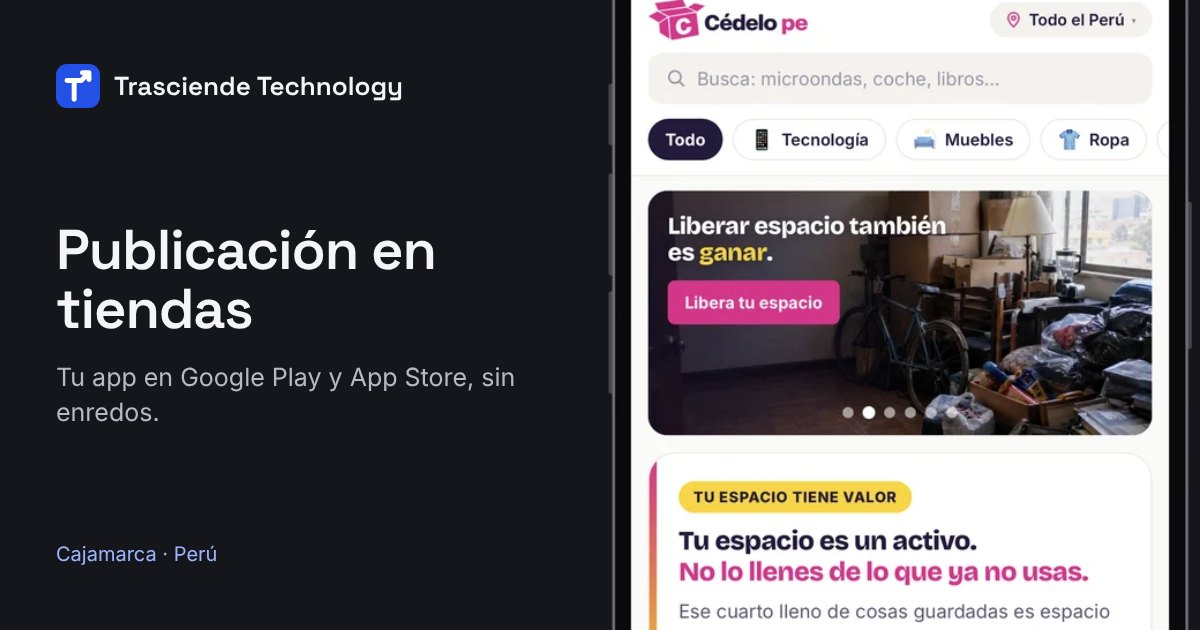
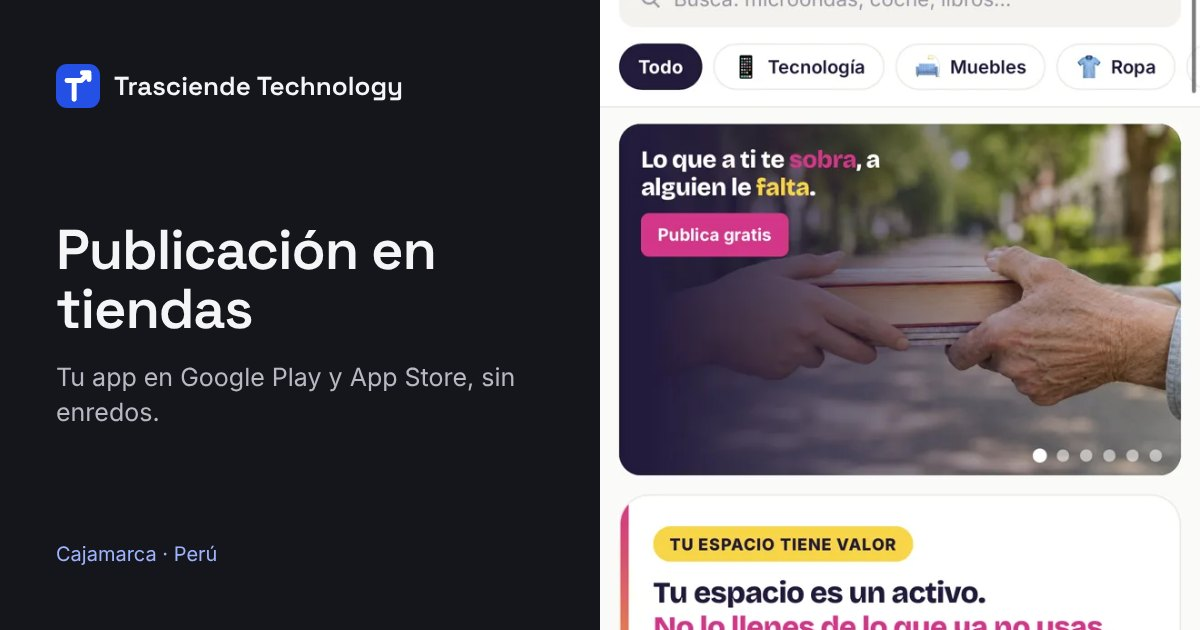
Nuevas capturas de Cédelo en marcos de iPhone y Android
Claude-Session: https://claude.ai/code/session_01VzWZn4JSzKTUWU45RsgEjn

diff --git a/index.html b/index.html
@@ -170,8 +170,10 @@ html.anim .promo{overflow-x:clip}
 #servicios .losa:has(.enlace:focus-visible){outline:2px solid var(--azul);outline-offset:-2px}
 
 /* ---------- Caso Cédelo ---------- */
-.caso-fotos{display:flex;gap:28px;justify-content:center;margin-top:56px;flex-wrap:wrap}
-.caso-fotos img{width:260px;max-width:44%;height:auto;filter:drop-shadow(0 26px 34px rgba(20,22,28,.3))}
+.caso-fotos{display:flex;gap:22px;justify-content:center;align-items:flex-start;margin:56px auto 0;max-width:1100px;flex-wrap:wrap}
+.caso-fotos img{width:calc(25% - 17px);min-width:0;height:auto;filter:drop-shadow(0 26px 34px rgba(0,0,0,.45))}
+.caso-fotos img:nth-child(even){margin-top:48px}
+@media(max-width:760px){.caso-fotos{gap:14px}.caso-fotos img{width:calc(50% - 7px)}.caso-fotos img:nth-child(even){margin-top:36px}}
 .mini{margin-top:50px;display:grid;grid-template-columns:repeat(3,1fr);gap:1px;background:var(--borde-osc,#2A2D38);max-width:860px;margin-left:auto;margin-right:auto;border:1px solid #2A2D38}
 .promo-osc .mini{background:#2A2D38}
 .mini div{background:var(--ink);padding:26px 20px}
@@ -400,8 +402,10 @@ details p{margin:0 0 18px;font-size:16px;line-height:1.6;color:var(--texto-2)}
   <p class="sub">Una plataforma para que los vecinos donen, vendan barato o intercambien lo que ya no usan. La construimos de principio a fin: diseño, desarrollo, base de datos en la nube, empresa, marca y redes. Ya está en Google Play con cuenta de organización a nombre de la empresa; la App Store está en trámite.</p>
   <p class="lema">“Lo que a ti te sobra, a alguien le falta.”</p>
   <div class="caso-fotos">
-    <img src="/img/cedelo-iphone.webp" alt="Cédelo pe en un iPhone: portada y sección Tu espacio tiene valor">
-    <img src="/img/cedelo-android.webp" alt="Cédelo pe en un celular Android: publicaciones gratis y en venta">
+    <img src="/img/cedelo/ios-home1.webp" width="661" height="1350" loading="lazy" alt="Cédelo pe en un iPhone: portada con el lema y la sección Tu espacio tiene valor">
+    <img src="/img/cedelo/android-lista2.webp" width="657" height="1377" loading="lazy" alt="Cédelo pe en un celular Android: publicaciones en venta y donaciones gratis en Cajamarca">
+    <img src="/img/cedelo/ios-chat.webp" width="661" height="1350" loading="lazy" alt="Cédelo pe en un iPhone: chat privado con consejos de entrega segura">
+    <img src="/img/cedelo/android-home2.webp" width="657" height="1377" loading="lazy" alt="Cédelo pe en un celular Android: portada con otra imagen del carrusel">
   </div>
   <div class="mini">
     <div><b>Chat en tiempo real</b><span>Reserva, visto y respuestas rápidas</span></div>

diff --git a/servicios/publicacion-en-tiendas/index.html b/servicios/publicacion-en-tiendas/index.html
@@ -170,8 +170,10 @@ html.anim .promo{overflow-x:clip}
 #servicios .losa:has(.enlace:focus-visible){outline:2px solid var(--azul);outline-offset:-2px}
 
 /* ---------- Caso Cédelo ---------- */
-.caso-fotos{display:flex;gap:28px;justify-content:center;margin-top:56px;flex-wrap:wrap}
-.caso-fotos img{width:260px;max-width:44%;height:auto;filter:drop-shadow(0 26px 34px rgba(20,22,28,.3))}
+.caso-fotos{display:flex;gap:22px;justify-content:center;align-items:flex-start;margin:56px auto 0;max-width:1100px;flex-wrap:wrap}
+.caso-fotos img{width:calc(25% - 17px);min-width:0;height:auto;filter:drop-shadow(0 26px 34px rgba(0,0,0,.45))}
+.caso-fotos img:nth-child(even){margin-top:48px}
+@media(max-width:760px){.caso-fotos{gap:14px}.caso-fotos img{width:calc(50% - 7px)}.caso-fotos img:nth-child(even){margin-top:36px}}
 .mini{margin-top:50px;display:grid;grid-template-columns:repeat(3,1fr);gap:1px;background:var(--borde-osc,#2A2D38);max-width:860px;margin-left:auto;margin-right:auto;border:1px solid #2A2D38}
 .promo-osc .mini{background:#2A2D38}
 .mini div{background:var(--ink);padding:26px 20px}
@@ -339,7 +341,7 @@ details p{margin:0 0 18px;font-size:16px;line-height:1.6;color:var(--texto-2)}
 <section class="promo promo-osc">
   <h2 style="font-size:clamp(28px,4vw,42px)">Las tasas de las tiendas van aparte.</h2>
   <p class="sub">Google Play cobra un pago único por la cuenta de desarrollador y Apple cobra una membresía anual. Te detallamos los montos antes de empezar.</p>
-  <div class="prueba"><img src="/img/cedelo-android.webp" alt="Cédelo pe en un celular Android" loading="lazy"><p><b>Lo hicimos con Cédelo pe.</b> Publicada en Google Play con cuenta de organización a nombre de Trasciende Technology. La publicación en App Store está en trámite.<br><a class="enlace enlace-claro" href="/#caso" style="font-size:16px;margin-top:10px">Ver el caso</a></p></div>
+  <div class="prueba"><img src="/img/cedelo/android-lista1.webp" alt="Cédelo pe en un celular Android" loading="lazy"><p><b>Lo hicimos con Cédelo pe.</b> Publicada en Google Play con cuenta de organización a nombre de Trasciende Technology. La publicación en App Store está en trámite.<br><a class="enlace enlace-claro" href="/#caso" style="font-size:16px;margin-top:10px">Ver el caso</a></p></div>
 </section>
 
 <section class="promo" style="padding-bottom:0">

diff --git a/servicios/apps-y-plataformas/index.html b/servicios/apps-y-plataformas/index.html
@@ -170,8 +170,10 @@ html.anim .promo{overflow-x:clip}
 #servicios .losa:has(.enlace:focus-visible){outline:2px solid var(--azul);outline-offset:-2px}
 
 /* ---------- Caso Cédelo ---------- */
-.caso-fotos{display:flex;gap:28px;justify-content:center;margin-top:56px;flex-wrap:wrap}
-.caso-fotos img{width:260px;max-width:44%;height:auto;filter:drop-shadow(0 26px 34px rgba(20,22,28,.3))}
+.caso-fotos{display:flex;gap:22px;justify-content:center;align-items:flex-start;margin:56px auto 0;max-width:1100px;flex-wrap:wrap}
+.caso-fotos img{width:calc(25% - 17px);min-width:0;height:auto;filter:drop-shadow(0 26px 34px rgba(0,0,0,.45))}
+.caso-fotos img:nth-child(even){margin-top:48px}
+@media(max-width:760px){.caso-fotos{gap:14px}.caso-fotos img{width:calc(50% - 7px)}.caso-fotos img:nth-child(even){margin-top:36px}}
 .mini{margin-top:50px;display:grid;grid-template-columns:repeat(3,1fr);gap:1px;background:var(--borde-osc,#2A2D38);max-width:860px;margin-left:auto;margin-right:auto;border:1px solid #2A2D38}
 .promo-osc .mini{background:#2A2D38}
 .mini div{background:var(--ink);padding:26px 20px}
@@ -342,7 +344,7 @@ details p{margin:0 0 18px;font-size:16px;line-height:1.6;color:var(--texto-2)}
 <section class="promo promo-osc">
   <h2 style="font-size:clamp(28px,4vw,42px)">Empieza con lo esencial y crece por etapas.</h2>
   <p class="sub">Definimos juntos qué necesita la primera versión para salir a la calle. Lo demás se suma cuando tus usuarios lo piden.</p>
-  <div class="prueba"><img src="/img/cedelo-iphone.webp" alt="Cédelo pe en un iPhone" loading="lazy"><p><b>Lo hicimos con Cédelo pe.</b> Una plataforma para donar, vender barato o intercambiar, con chat en tiempo real, acceso con Google y base de datos en la nube. Ya está en Google Play.<br><a class="enlace enlace-claro" href="/#caso" style="font-size:16px;margin-top:10px">Ver el caso</a></p></div>
+  <div class="prueba"><img src="/img/cedelo/ios-home1.webp" alt="Cédelo pe en un iPhone" loading="lazy"><p><b>Lo hicimos con Cédelo pe.</b> Una plataforma para donar, vender barato o intercambiar, con chat en tiempo real, acceso con Google y base de datos en la nube. Ya está en Google Play.<br><a class="enlace enlace-claro" href="/#caso" style="font-size:16px;margin-top:10px">Ver el caso</a></p></div>
 </section>
 
 <section class="promo" style="padding-bottom:0">

diff --git a/404.html b/404.html
@@ -154,8 +154,10 @@ html.anim .promo{overflow-x:clip}
 #servicios .losa:has(.enlace:focus-visible){outline:2px solid var(--azul);outline-offset:-2px}
 
 /* ---------- Caso Cédelo ---------- */
-.caso-fotos{display:flex;gap:28px;justify-content:center;margin-top:56px;flex-wrap:wrap}
-.caso-fotos img{width:260px;max-width:44%;height:auto;filter:drop-shadow(0 26px 34px rgba(20,22,28,.3))}
+.caso-fotos{display:flex;gap:22px;justify-content:center;align-items:flex-start;margin:56px auto 0;max-width:1100px;flex-wrap:wrap}
+.caso-fotos img{width:calc(25% - 17px);min-width:0;height:auto;filter:drop-shadow(0 26px 34px rgba(0,0,0,.45))}
+.caso-fotos img:nth-child(even){margin-top:48px}
+@media(max-width:760px){.caso-fotos{gap:14px}.caso-fotos img{width:calc(50% - 7px)}.caso-fotos img:nth-child(even){margin-top:36px}}
 .mini{margin-top:50px;display:grid;grid-template-columns:repeat(3,1fr);gap:1px;background:var(--borde-osc,#2A2D38);max-width:860px;margin-left:auto;margin-right:auto;border:1px solid #2A2D38}
 .promo-osc .mini{background:#2A2D38}
 .mini div{background:var(--ink);padding:26px 20px}

diff --git a/servicios/arranque-digital/index.html b/servicios/arranque-digital/index.html
@@ -170,8 +170,10 @@ html.anim .promo{overflow-x:clip}
 #servicios .losa:has(.enlace:focus-visible){outline:2px solid var(--azul);outline-offset:-2px}
 
 /* ---------- Caso Cédelo ---------- */
-.caso-fotos{display:flex;gap:28px;justify-content:center;margin-top:56px;flex-wrap:wrap}
-.caso-fotos img{width:260px;max-width:44%;height:auto;filter:drop-shadow(0 26px 34px rgba(20,22,28,.3))}
+.caso-fotos{display:flex;gap:22px;justify-content:center;align-items:flex-start;margin:56px auto 0;max-width:1100px;flex-wrap:wrap}
+.caso-fotos img{width:calc(25% - 17px);min-width:0;height:auto;filter:drop-shadow(0 26px 34px rgba(0,0,0,.45))}
+.caso-fotos img:nth-child(even){margin-top:48px}
+@media(max-width:760px){.caso-fotos{gap:14px}.caso-fotos img{width:calc(50% - 7px)}.caso-fotos img:nth-child(even){margin-top:36px}}
 .mini{margin-top:50px;display:grid;grid-template-columns:repeat(3,1fr);gap:1px;background:var(--borde-osc,#2A2D38);max-width:860px;margin-left:auto;margin-right:auto;border:1px solid #2A2D38}
 .promo-osc .mini{background:#2A2D38}
 .mini div{background:var(--ink);padding:26px 20px}

diff --git a/servicios/paginas-web/index.html b/servicios/paginas-web/index.html
@@ -170,8 +170,10 @@ html.anim .promo{overflow-x:clip}
 #servicios .losa:has(.enlace:focus-visible){outline:2px solid var(--azul);outline-offset:-2px}
 
 /* ---------- Caso Cédelo ---------- */
-.caso-fotos{display:flex;gap:28px;justify-content:center;margin-top:56px;flex-wrap:wrap}
-.caso-fotos img{width:260px;max-width:44%;height:auto;filter:drop-shadow(0 26px 34px rgba(20,22,28,.3))}
+.caso-fotos{display:flex;gap:22px;justify-content:center;align-items:flex-start;margin:56px auto 0;max-width:1100px;flex-wrap:wrap}
+.caso-fotos img{width:calc(25% - 17px);min-width:0;height:auto;filter:drop-shadow(0 26px 34px rgba(0,0,0,.45))}
+.caso-fotos img:nth-child(even){margin-top:48px}
+@media(max-width:760px){.caso-fotos{gap:14px}.caso-fotos img{width:calc(50% - 7px)}.caso-fotos img:nth-child(even){margin-top:36px}}
 .mini{margin-top:50px;display:grid;grid-template-columns:repeat(3,1fr);gap:1px;background:var(--borde-osc,#2A2D38);max-width:860px;margin-left:auto;margin-right:auto;border:1px solid #2A2D38}
 .promo-osc .mini{background:#2A2D38}
 .mini div{background:var(--ink);padding:26px 20px}

diff --git a/servicios/ruta-ssoma/index.html b/servicios/ruta-ssoma/index.html
@@ -170,8 +170,10 @@ html.anim .promo{overflow-x:clip}
 #servicios .losa:has(.enlace:focus-visible){outline:2px solid var(--azul);outline-offset:-2px}
 
 /* ---------- Caso Cédelo ---------- */
-.caso-fotos{display:flex;gap:28px;justify-content:center;margin-top:56px;flex-wrap:wrap}
-.caso-fotos img{width:260px;max-width:44%;height:auto;filter:drop-shadow(0 26px 34px rgba(20,22,28,.3))}
+.caso-fotos{display:flex;gap:22px;justify-content:center;align-items:flex-start;margin:56px auto 0;max-width:1100px;flex-wrap:wrap}
+.caso-fotos img{width:calc(25% - 17px);min-width:0;height:auto;filter:drop-shadow(0 26px 34px rgba(0,0,0,.45))}
+.caso-fotos img:nth-child(even){margin-top:48px}
+@media(max-width:760px){.caso-fotos{gap:14px}.caso-fotos img{width:calc(50% - 7px)}.caso-fotos img:nth-child(even){margin-top:36px}}
 .mini{margin-top:50px;display:grid;grid-template-columns:repeat(3,1fr);gap:1px;background:var(--borde-osc,#2A2D38);max-width:860px;margin-left:auto;margin-right:auto;border:1px solid #2A2D38}
 .promo-osc .mini{background:#2A2D38}
 .mini div{background:var(--ink);padding:26px 20px}

diff --git a/servicios/tramites-para-emprender/index.html b/servicios/tramites-para-emprender/index.html
@@ -170,8 +170,10 @@ html.anim .promo{overflow-x:clip}
 #servicios .losa:has(.enlace:focus-visible){outline:2px solid var(--azul);outline-offset:-2px}
 
 /* ---------- Caso Cédelo ---------- */
-.caso-fotos{display:flex;gap:28px;justify-content:center;margin-top:56px;flex-wrap:wrap}
-.caso-fotos img{width:260px;max-width:44%;height:auto;filter:drop-shadow(0 26px 34px rgba(20,22,28,.3))}
+.caso-fotos{display:flex;gap:22px;justify-content:center;align-items:flex-start;margin:56px auto 0;max-width:1100px;flex-wrap:wrap}
+.caso-fotos img{width:calc(25% - 17px);min-width:0;height:auto;filter:drop-shadow(0 26px 34px rgba(0,0,0,.45))}
+.caso-fotos img:nth-child(even){margin-top:48px}
+@media(max-width:760px){.caso-fotos{gap:14px}.caso-fotos img{width:calc(50% - 7px)}.caso-fotos img:nth-child(even){margin-top:36px}}
 .mini{margin-top:50px;display:grid;grid-template-columns:repeat(3,1fr);gap:1px;background:var(--borde-osc,#2A2D38);max-width:860px;margin-left:auto;margin-right:auto;border:1px solid #2A2D38}
 .promo-osc .mini{background:#2A2D38}
 .mini div{background:var(--ink);padding:26px 20px}
